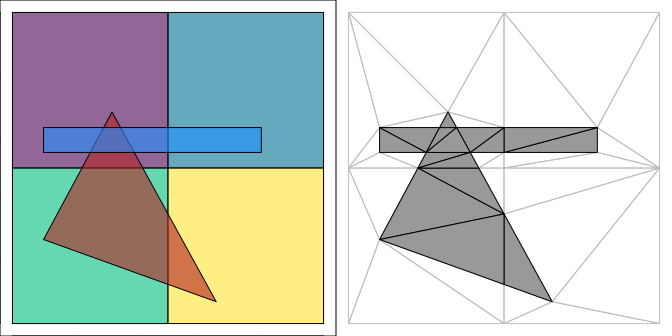
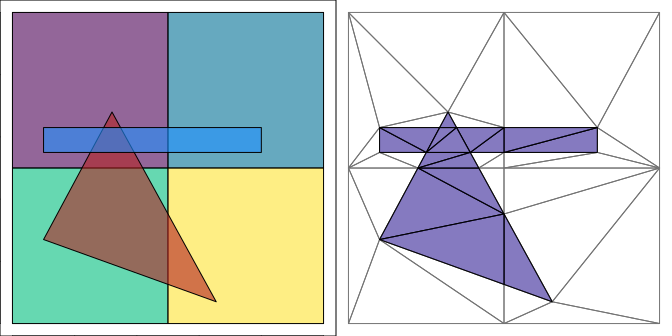
Raise contrast on the pkgdown site and README mesh figure
- Navbar on the primary purple with white brand, version and links,
  so the menu toggler is visible on mobile.
- Darker body and heading text, darker link colour, darker link hover.
- plot.polymer() draws the mesh edges in grey45 instead of grey.
- README hero mesh fills overlaps in polymer purple, regenerated figure.

Claude-Session: https://claude.ai/code/session_01KtK8aKR8cppAwHwGTPiUNd

diff --git a/pkgdown/extra.css b/pkgdown/extra.css
@@ -1,6 +1,7 @@
 :root {
   --polymer-accent: #e57c59;
-  --polymer-ink: #25334a;
+  --polymer-accent-ink: #a8472a;
+  --polymer-ink: #1b2533;
 }
 
 body {
@@ -39,7 +40,7 @@ a {
 }
 
 a:hover {
-  color: var(--polymer-accent);
+  color: var(--polymer-accent-ink);
 }
 
 .btn-primary {
@@ -63,12 +64,26 @@ pre,
    slate:  primary #354F6B, secondary #66788A, accent #D49A50
 */
 
-/* flatly styles navbar links for a dark bar; keep them readable on bg: light */
-.navbar .navbar-nav .nav-link {
-  color: var(--polymer-ink);
+/* navbar is bg: primary (dark purple); keep brand, version and links white */
+.navbar .navbar-brand,
+.navbar .navbar-nav .nav-link,
+.navbar .nav-text,
+.navbar .text-muted {
+  color: #ffffff !important;
 }
 
-.navbar .navbar-nav .nav-link:hover,
-.navbar .navbar-nav .nav-link.active {
-  color: #5142a5;
+.navbar .navbar-nav .nav-link:hover {
+  color: #ffffff;
+  text-decoration: underline;
+  text-underline-offset: 0.3em;
+}
+
+.navbar .navbar-nav .nav-link.active,
+.navbar .navbar-nav .active > .nav-link {
+  background-color: rgb(255 255 255 / 16%) !important;
+  border-radius: 0.4rem;
+}
+
+.navbar-toggler {
+  border-color: rgb(255 255 255 / 60%);
 }
